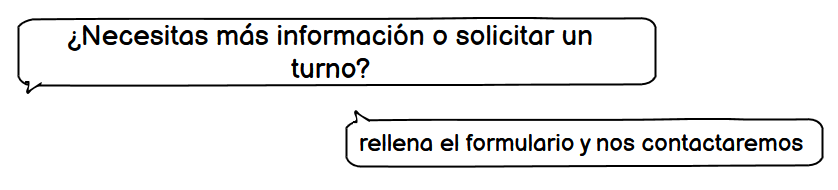
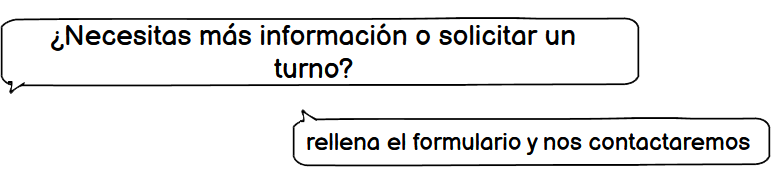
cambios responsive

Changed region(s): [[0.0, 0.0789, 0.8405, 0.5], [0.3735, 0.5789, 1.0, 0.8947], [0.3424, 0.2895, 0.4669, 0.4211]]

diff --git a/Sass/style.scss b/Sass/style.scss
@@ -283,6 +283,47 @@ $fondo-form-contacto: url(../assets/pruebaFondoIframes.jpg);
     scroll-behavior: smooth;
 }
 /*Fin seccion sobre mi */
+
+/*
+@media only screen and (min-width: 901px) and (max-didth: 924px) {
+    .padreTarjetasPrevencion{
+        grid-template-columns: repeat(2, 1fr);
+        grid-template-rows: repeat(3, 1fr);
+    }
+}
+*/
+
+@media only screen and (min-width: 820px) and (max-width:1099px) {
+    .padreTarjetasPrevencion{
+        grid-template-columns: repeat(2,1fr);
+}
+.padreTarjetasPatologias{
+    grid-template-columns: repeat(2,1fr);
+}
+}
+
+
+@media only screen and (min-width: 577px) and (max-width: 819px) {
+    .padreTarjetasPrevencion{
+        grid-template-columns: revert;
+    }
+    .padreTarjetasPatologias{
+        grid-template-columns: revert;
+    }
+
+    #imgContacto{
+        width: 100%;
+    }
+
+    #contenedor-banner-contacto{
+        padding-bottom: 5%;
+    }
+}
+
+#contenedor-form{
+    padding-bottom: 5%;
+}
+
 /*css para mobile */
 @media only screen and (max-width: 576px) {
     /*INDEX*/
@@ -372,7 +413,7 @@ $fondo-form-contacto: url(../assets/pruebaFondoIframes.jpg);
     }
     #contenedor-form {
         padding-top: 10%;
-        padding-bottom: 20%;
+        padding-bottom: 41%;
     }
     .input {
         letter-spacing: 1px;

diff --git a/css/style.css b/css/style.css
@@ -260,6 +260,33 @@
   scroll-behavior: smooth; }
 
 /*Fin seccion sobre mi */
+/*
+@media only screen and (min-width: 901px) and (max-didth: 924px) {
+    .padreTarjetasPrevencion{
+        grid-template-columns: repeat(2, 1fr);
+        grid-template-rows: repeat(3, 1fr);
+    }
+}
+*/
+@media only screen and (min-width: 820px) and (max-width: 1099px) {
+  .padreTarjetasPrevencion {
+    grid-template-columns: repeat(2, 1fr); }
+  .padreTarjetasPatologias {
+    grid-template-columns: repeat(2, 1fr); } }
+
+@media only screen and (min-width: 577px) and (max-width: 819px) {
+  .padreTarjetasPrevencion {
+    grid-template-columns: revert; }
+  .padreTarjetasPatologias {
+    grid-template-columns: revert; }
+  #imgContacto {
+    width: 100%; }
+  #contenedor-banner-contacto {
+    padding-bottom: 5%; } }
+
+#contenedor-form {
+  padding-bottom: 5%; }
+
 /*css para mobile */
 @media only screen and (max-width: 576px) {
   /*INDEX*/
@@ -329,7 +356,7 @@
     width: 100%; }
   #contenedor-form {
     padding-top: 10%;
-    padding-bottom: 20%; }
+    padding-bottom: 41%; }
   .input {
     letter-spacing: 1px; }
   textarea.input {
